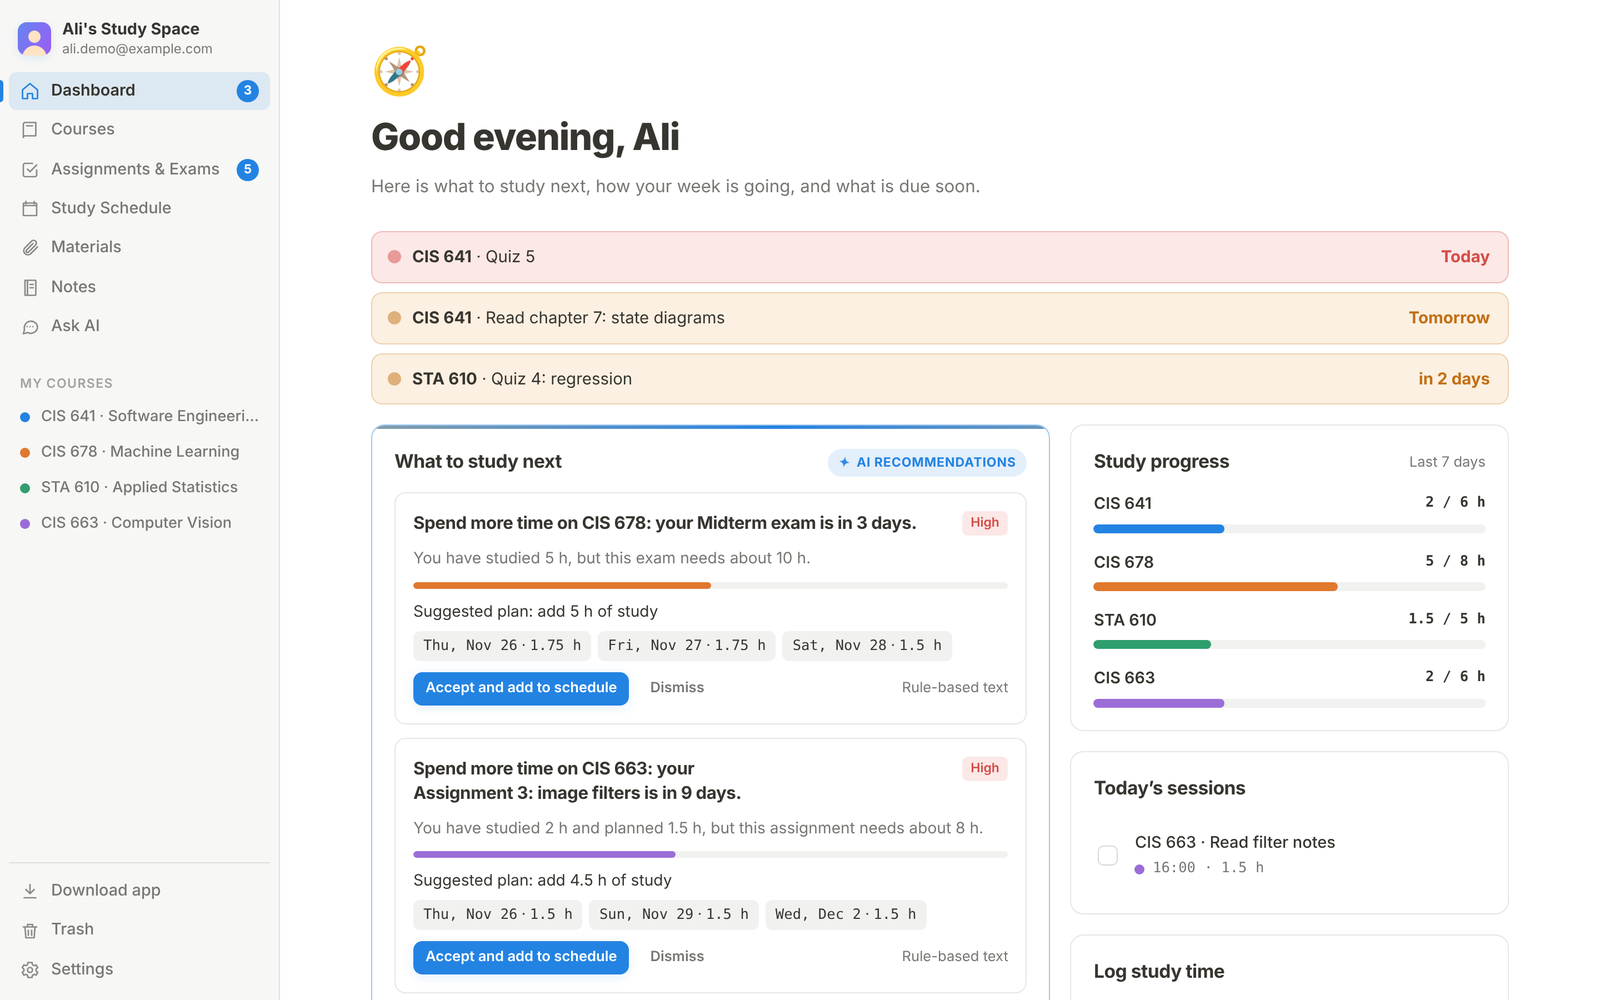
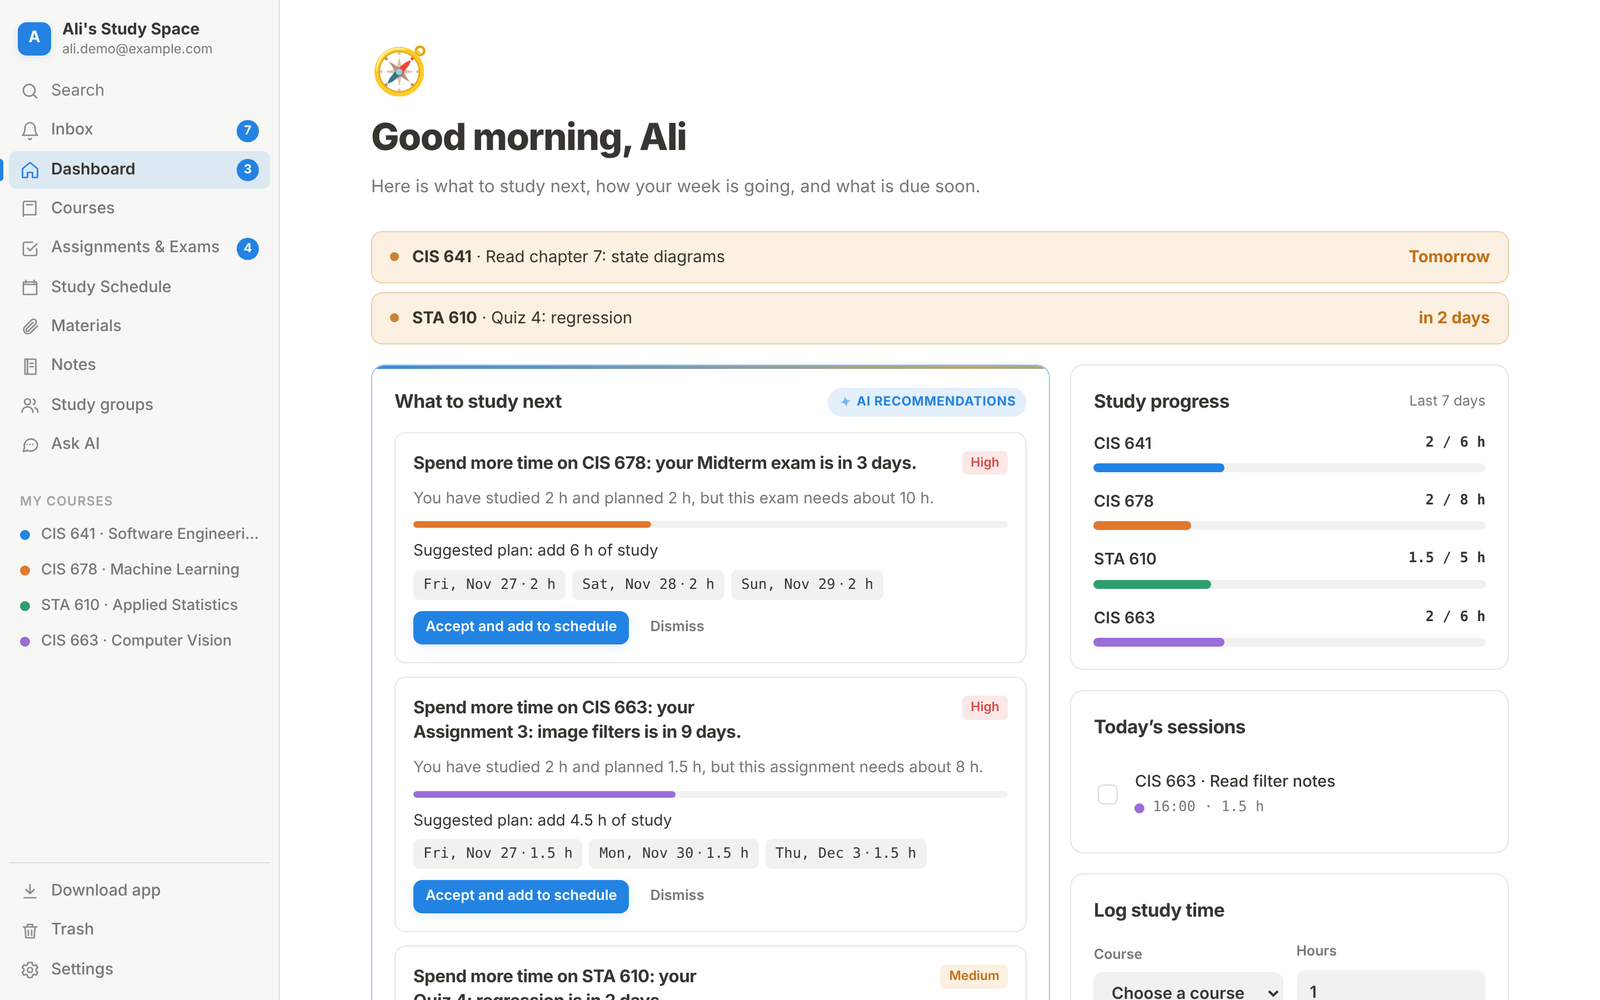
README: Microsoft Store link, databases, collaboration and new screenshots

diff --git a/README.md b/README.md
@@ -2,15 +2,21 @@
   <img src="src/client/public/logo.png" alt="AI Study Assistant logo" width="96" height="96" />
 </p>
 
-<h1 align="center">AI Study Assistant</h1>
+<h1 align="center">StudyPilot · AI Study Assistant</h1>
 
 <p align="center">
   A study planner for university students: courses, deadlines, study hours and an AI study coach, all in one place.<br />
   <a href="https://gvsu-cis641-aistudyassistant.onrender.com"><b>Open the live app</b></a>
   ·
+  <a href="https://apps.microsoft.com/detail/9PJZX6KSS8TH"><b>Get it from the Microsoft Store</b></a>
+  ·
   <a href="#how-to-use-the-app">How to use it</a>
   ·
   <a href="#7-write-your-notes">Notes</a>
+  ·
+  <a href="#14-work-with-classmates">Work with classmates</a>
+  ·
+  <a href="#15-track-things-in-a-database">Databases</a>
   ·
   <a href="src/README.md">Developer guide</a>
   ·
@@ -23,7 +29,7 @@
 
 ---
 
-The AI Study Assistant is a web application that helps students organize their school work in one place. Students manage their courses, assignments, exams, study schedule and course materials, write Notion-style notes, and track how many hours they study for each course. The app works out where the student is behind, recommends what to study next with a concrete plan of study sessions, and includes an AI chat coach that knows the student's own deadlines, hours and notes and can add things to the planner for them. The same AI also works inside the notes, where it writes, explains, summarizes and quizzes.
+StudyPilot (the AI Study Assistant) is a web application, also available as a Windows app in the [Microsoft Store](https://apps.microsoft.com/detail/9PJZX6KSS8TH), that helps students organize their school work in one place. Students manage their courses, assignments, exams, study schedule and course materials, write Notion-style notes and databases (alone or together with classmates), and track how many hours they study for each course. The app works out where the student is behind, recommends what to study next with a concrete plan of study sessions, and includes an AI chat coach that knows the student's own deadlines, hours and notes and can add things to the planner for them. The same AI also works inside the notes, where it writes, explains, summarizes and quizzes.
 
 Built for **CIS 641 (Software Engineering)** at Grand Valley State University.
 
@@ -72,7 +78,12 @@ Built for **CIS 641 (Software Engineering)** at Grand Valley State University.
 
 ## What's new
 
-- **Team collaboration (November 2026):** click **Share** on any note page to invite classmates by email (**Can view** or **Can edit**), share it with a **study group**, or turn on **Share to web** for a read-only link anyone can open. People who can edit work on the page **at the same time** and see each other's typing and cursors live. The new **Study groups** page (sidebar) holds each group's members, chat, shared deadlines and shared pages. Only people who already have an account can be invited; they are told by email. Shared content follows the new [community guidelines](https://gvsu-cis641-aistudyassistant.onrender.com/guidelines), and anything that breaks them can be reported with the 🚩 button on a shared page, a public page or a chat message.
+- **Microsoft Store (November 2026):** StudyPilot is published in the [Microsoft Store](https://apps.microsoft.com/detail/9PJZX6KSS8TH). The Store app opens this same website, so every update reaches it as soon as it is deployed.
+- **Study group invitations (November 2026):** adding a classmate to a study group now sends an **invitation**. They see it in their 🔔 Inbox and by email and click **Accept** or **Decline**; until they accept, they see nothing of the group. Invited people show as *Invited* in the group, and the invitation can be cancelled.
+- **Databases (November 2026):** track assignments, readings or exam topics in a **database**: a page that holds a list of pages with properties (text, number, select, multi-select, status, date, checkbox, link, person). See the same rows as a **Table**, a **Board** (drag cards between statuses), a **Calendar** (drag rows to another day) or a **Gallery**, each view with its own filters, sorts and hidden columns. Every row opens as its own page. Templates: **Assignment tracker**, **Reading list**, **Exam prep**. Export to **CSV**. See [Track things in a database](#15-track-things-in-a-database).
+- **Working together on notes (November 2026):** **comments** on any words of a page, with reply threads; **suggested edits** from people who can only view a page, which the owner accepts or rejects line by line; **Lock page**; a **🔔 Inbox** in the sidebar for mentions, comments, suggestions, shared pages and invitations; a **Chat** on every shared page; and **Page history** to bring back an earlier version.
+- **More in Notes (November 2026):** new blocks (**equations** with LaTeX, **callouts**, **columns**, **table of contents**, **embeds** for YouTube, Google Docs, Figma and more, **web bookmarks**), **@mentions** of classmates, pages and dates, **Linked from** backlinks, **Quick Find** (`Ctrl+K`) over everything, a Notion-style emoji picker, and the **⋯** menu to **duplicate**, **move**, and **export** a page as **PDF**, **Word** or **Markdown** (or **Import** a Word, Markdown or HTML file).
+- **Team collaboration (November 2026):** click **Share** on any note page to invite classmates by email (**Can view** or **Can edit**), share it with a **study group**, or turn on **Share to web** for a read-only link anyone can open. People who can edit work on the page **at the same time** and see each other's typing and cursors live. The new **Study groups** page (sidebar) holds each group's members, chat, shared deadlines and shared pages. Only people who already have an account can be invited; they get an email and accept or decline the invitation. Shared content follows the new [community guidelines](https://gvsu-cis641-aistudyassistant.onrender.com/guidelines), and anything that breaks them can be reported with the 🚩 button on a shared page, a public page or a chat message.
 - **Trash, folders, profile picture (November 2026):** deleting a course, task, study session, file, page or Ask AI chat moves it to the **Trash** (bottom of the sidebar) with an **Undo** button; restore it any time in the next 30 days, after which it is deleted for good. A course goes to the Trash together with its tasks, sessions and files. In Notes, the list groups pages **by course** and into **your own folders** (drag a page onto a folder, or use its folder button). Each page has a **text size** (small, default, large) and **full width** option (the *T* button). Drag the edge of the **sidebar**, the **notes list**, the **Notes AI panel** or the **Ask AI chat list** to make it wider or narrower (double-click resets). Add a **profile picture** in Settings › Account. A course's **weekly study goal is now optional**: leave it empty or choose *None*. **Edit course** on a course card changes its code, name, goal and color.
 - **Run code in Notes (November 2026):** code blocks in **Python, JavaScript, SQL and HTML** get a **Run** button (or press `Ctrl+Enter` / `⌘+Enter`). What the program prints appears in an *Output* block right below; running again replaces it. Everything runs in your own browser, not on the server: Python is real CPython (Pyodide, downloaded once on the first run, about 10 MB, and `numpy`, `pandas` ... load when you import them), SQL is SQLite (each run starts with an empty database, so create your tables in the same block), and HTML opens in a safe preview window. A run is stopped after 10–20 seconds, so an endless loop can't freeze the page. Java, C++ and other compiled languages can't run in the browser yet.
 - **Code like in VS Code (November 2026):** code blocks in Notes get VS Code shortcuts (Tab / Shift+Tab, `Ctrl+/` comment, `Alt+↑/↓` move lines, `Shift+Alt+↑/↓` copy lines, `Ctrl+Shift+K` delete line, auto-indent, auto-closing brackets) and **AI suggestions** in grey while you type: `Tab` accepts, `Ctrl+→` takes one word, `Esc` hides. Turn suggestions off in Settings › Appearance. The full list is in Settings › About.
@@ -151,7 +162,10 @@ Go to **Notes** and pick a template (Lecture notes, Study guide, Assignment plan
 - Type **/** to add a heading, a list, a to-do, a toggle, a quote, a table, code, a divider or a picture. Markdown shortcuts work too: `# ` for a heading, `- ` for a list, `[] ` for a to-do.
 - Hover the title to **Add icon** or **Add cover**. A cover can be one of 12 gradients or **your own picture** from your computer or phone (you can also drop a picture on the cover). Use **Reposition** to choose which part of the picture shows.
 - Click **+** next to a page in the list, or **Add a sub-page** at the bottom, to put pages inside pages.
-- Use the ⭐ to add a page to **Favorites**, the course menu to tag it with a course, and **Search notes** to find any word.
+- Use the ⭐ to add a page to **Favorites**, the course menu to tag it with a course, and **Search notes** to find any word. **Quick Find** (`Ctrl+K`, or **Search** in the sidebar) searches every page, assignment, course and study group at once.
+- The **/** menu also has **Equation** and **Inline equation** (LaTeX), **Callout** 💡, **2 / 3 columns**, **Table of contents**, **Embed** (YouTube, Google Docs, Slides, Figma, Loom, Desmos, PDF), **Web bookmark** and **Database**.
+- Type **@** to mention a classmate (they get a notification), link to another page, or add a date. A page that other pages link to shows **Linked from** under its title.
+- The **⋯** menu at the top of a page can **Duplicate** it, **Move** it inside another page, show its **Page history**, **Lock** it, and **Export** it as **PDF**, **Word (.docx)** or **Markdown**. **Import** (next to *New page*) turns a Word, Markdown, text or HTML file into a page.
 
 **Organize your pages.** The list on the left groups your pages **by course** (from each page's course tag). Make your own **folders** with the folder button next to *Folders*, then drag a page onto a folder, or hover a page and click its folder icon. Click a group to open or close it. Drag the edge of the list to make it wider. The **T** button at the top of a page sets its **text size** and **full width**.
 
@@ -249,7 +263,7 @@ The installed app fills the whole screen on phones, follows your theme, and upda
 
 <p align="center"><img src="docs/screenshots/phone.png" alt="The app on a phone: dashboard, Ask AI and the menu" width="760" /></p>
 
-**App stores:** the Windows app passed **Microsoft Store** certification in November 2026 ([Store page](https://apps.microsoft.com/detail/9PJZX6KSS8TH)). An Android (Google Play) package has been built too. Both are made with [PWABuilder](https://www.pwabuilder.com) from this same web app, so they update whenever the website does. An iPhone App Store version needs a Mac to build.
+**App stores:** the Windows app is in the **Microsoft Store**: [get StudyPilot](https://apps.microsoft.com/detail/9PJZX6KSS8TH) (published November 2026). An Android (Google Play) package has been built too. Both are made with [PWABuilder](https://www.pwabuilder.com) from this same web app, so they update whenever the website does. An iPhone App Store version needs a Mac to build.
 
 ### 13. Undo a mistake with the Trash
 
@@ -268,6 +282,9 @@ Deleting never loses your work right away. When you delete a course, task, study
 - a **group chat**,
 - **deadlines** for the whole team; **Add to my assignments** copies one into your own Assignments under the course you choose,
 - **shared pages**: in a page's Share window, tick the group, and every member can edit it.
+- **meetings** (see *Meet on Zoom* below).
+
+<p align="center"><img src="docs/screenshots/study-group.png" alt="A study group with its chat, a scheduled meeting, shared deadlines and members" width="900" /></p>
 
 **A public link.** In the Share window, turn on **Share to web** and click **Copy link**. Anyone with the link can read the page, without an account, but nobody can change it. Turn it off and the link stops working.
 
@@ -277,17 +294,33 @@ Deleting never loses your work right away. When you delete a course, task, study
 
 **Get a page back.** Click 🕘 (**Page history**) at the top of a page. StudyPilot keeps a copy before a big part of a page is removed (by you, a classmate or the AI) and every 15 minutes while it is edited, for 60 days. Pick a time, look at it, and click **Restore this version**; Ctrl+Z undoes it.
 
-**Track things in a database.** On the Notes start screen, pick **Assignment tracker** (or Reading list, Exam prep, Empty database), or type `/database` in any page. Click a cell to change it; click a column name to rename it, change its type, edit its options or sort by it; **+** at the end of the header adds a property. **+ New** adds a row. The tabs above the table are views: **By status** is a board where you drag cards from *Not started* to *Done*, **Calendar** puts each row on its due date. Click a tab's name again for its settings, or **+** for a new view. **Filter** and **Sort** apply to the view you are on, so one view can show only this week's exams. Click a card, or **Open** next to a name, to write notes inside that row.
-
 **Comment on a page.** Select some words and click **Comment** in the toolbar that appears, write your comment and press Enter. The words are highlighted in yellow; click them (or the 💬 button at the top of the page) to see the thread. Reply, **Resolve** (✓) when it is sorted out, or open the **Resolved** tab to see old threads.
+
+<p align="center"><img src="docs/screenshots/notes-collab.png" alt="A shared study guide with a classmate on the page and a comment thread on highlighted words" width="900" /></p>
 
 **Suggest edits to a page you can only view.** Click **Suggest edits** at the top of the page. A green bar shows that you are changing your own copy; change what you want, add a note and click **Send suggestion**. The owner gets a notification, opens **1 suggestion**, sees exactly what you changed and accepts or rejects it. Until then you can withdraw it under **Your suggestions**.
 
+<p align="center"><img src="docs/screenshots/suggested-edits.png" alt="Reviewing a suggested edit: the removed line in red, the new line in green, with Accept and Reject" width="900" /></p>
+
 **Lock a page.** When a page is finished (a final study guide, say), open **⋯** and choose **Lock page**. Nobody, you included, can change it until you click **Unlock**.
 
-**Inbox.** 🔔 **Inbox** in the sidebar collects everything that happened for you: pages shared with you, @mentions, comments, suggested edits, study groups and meetings. A blue dot marks what you have not opened yet; **Mark all read** clears the count.
+**Inbox.** 🔔 **Inbox** in the sidebar collects everything that happened for you: pages shared with you, @mentions, comments, suggested edits, study groups and meetings. A blue dot marks what you have not opened yet; **Mark all read** clears the count. Group invitations have **Accept** and **Decline** right in the Inbox.
+
+<p align="center"><img src="docs/screenshots/inbox.png" alt="The Inbox with mentions, comments, a suggested edit and people joining a group" width="760" /></p>
 
 **Report something.** If a shared page, a public page or a chat message breaks the [community guidelines](https://gvsu-cis641-aistudyassistant.onrender.com/guidelines), click the 🚩 flag (next to the owner's name on a page, **Report** at the top of a public page, or next to the time of a message), choose a reason and click **Send report**. The person is not told who reported them.
+
+### 15. Track things in a database
+
+On the Notes start screen, pick **Assignment tracker** (or Reading list, Exam prep, Empty database), or type `/database` in any page. Click a cell to change it; click a column name to rename it, change its type, edit its options or sort by it; **+** at the end of the header adds a property. **+ New** adds a row. The tabs above the table are views: **By status** is a board where you drag cards from *Not started* to *Done*, **Calendar** puts each row on its due date. Click a tab's name again for its settings, or **+** for a new view. **Filter** and **Sort** apply to the view you are on, so one view can show only this week's exams. Click a card, or **Open** next to a name, to write notes inside that row.
+
+<p align="center"><img src="docs/screenshots/database-table.png" alt="The Assignment tracker database as a table with status, due date and course" width="900" /></p>
+
+<p align="center"><img src="docs/screenshots/database-board.png" alt="The same database as a board, grouped by status" width="900" /></p>
+
+<p align="center"><img src="docs/screenshots/database-calendar.png" alt="The same database as a calendar of due dates" width="900" /></p>
+
+Change a property's type or options from its column menu: **Select** and **Status** have colored options (type a new one to create it), **Person** picks someone who can open the database, **Number** can show percents or currency. **Properties** (⚙) chooses which columns a view shows. Share a database like any page; everyone it is shared with sees and edits the same rows. **⋯ › Export › CSV** downloads the rows for Excel or Google Sheets.
 
 ## How the AI works
 
